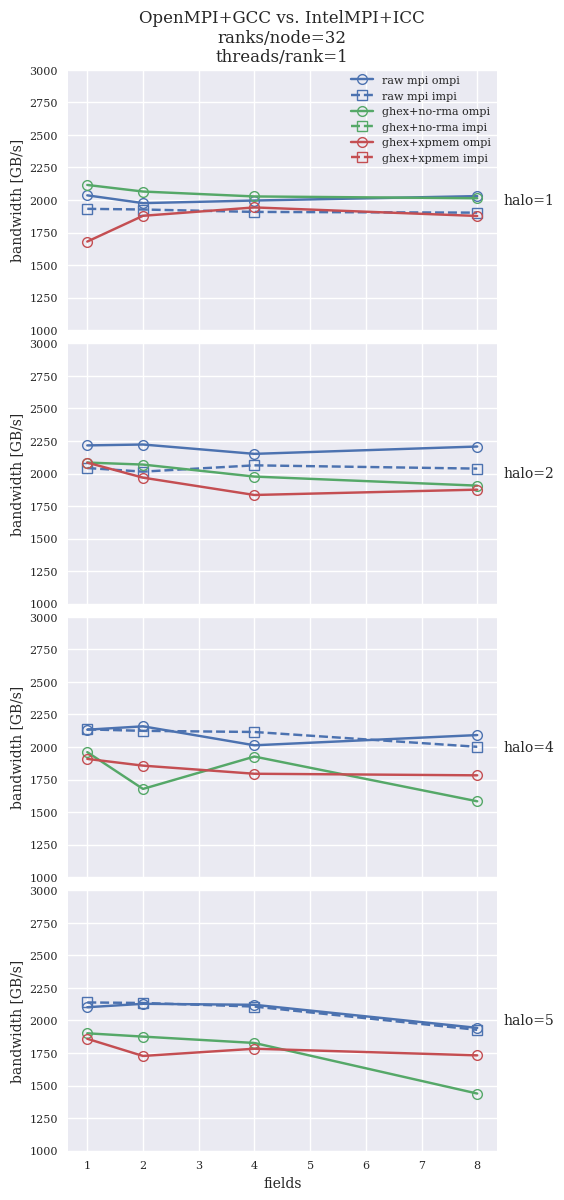
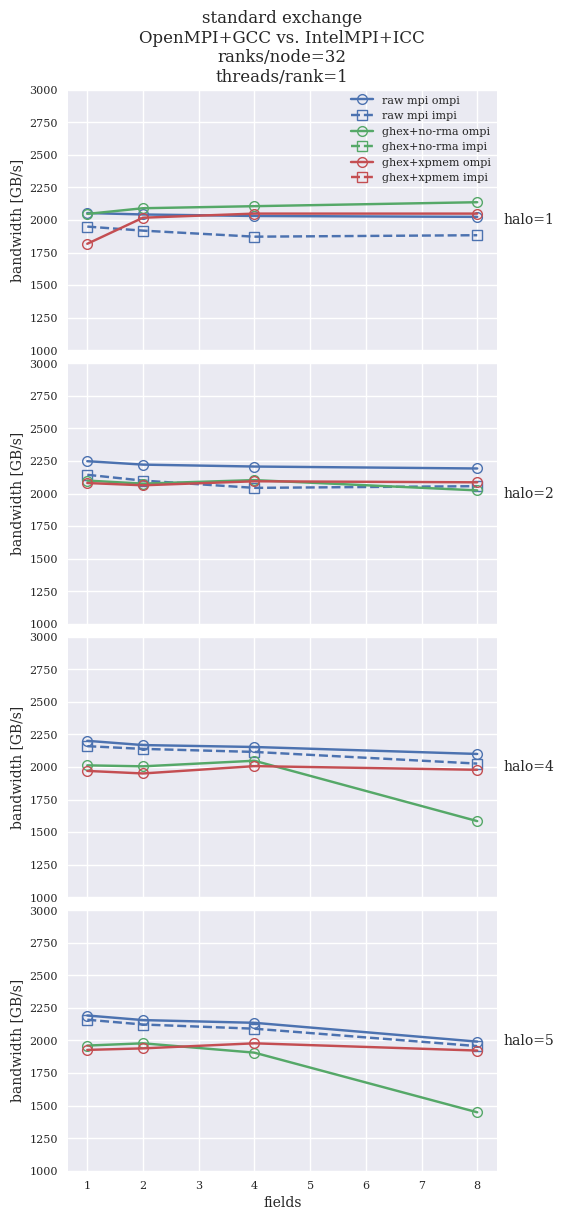
new betzy results (all tests on the same set of nodes)

diff --git a/results/betzy/27_nodes/plots.md b/results/betzy/27_nodes/plots.md
@@ -1,0 +1,134 @@
+## Comparison of various 27-nodes results
+
+All tests have been run with 64^3 per-rank grids, `halfcores` (64 ranks per compute node, `hwcart` decomposition  
+`--node 3 3 3 --socket 1 1 2 --numa 1 2 2 --l3 2 2 1 --core 2 1 1`.
+
+Plots present cumulative effective memory bandwidth of the exchange operation (more=better).
+
+[Standard algorithm](#standard-algorithm)  
+&nbsp; &nbsp;  [`impi` vs `ompi`](#impi-vs-ompi)  
+&nbsp; &nbsp;  [UCX vs MPI](#ucx-vs-mpi)  
+[Staged algorithm](#staged-algorithm)  
+&nbsp; &nbsp;  [`impi` vs `ompi`](#impi-vs-ompi-1)  
+&nbsp; &nbsp;  [UCX vs MPI](#ucx-vs-mpi-1)  
+[Sequenced algorithm](#sequenced-algorithm)  
+
+### Standard algorithm
+
+Standard algorithm means that each rank performs explicit halo exchanges with each of the 26 neigobors. For
+multiple fields the data is packed into a single array and sent in one large message.
+
+The standard algorithm is implemented in all the `ghex` variants of the benchmark. 
+The raw MPI version of the benchmark implements the [staged algorithm of the 3D halo exchange](#staged-algorithm).
+
+#### `impi` vs `ompi`
+
+Only `benchmark_mpi_comm` was executed with the Intel compiler. The problem is that
+the `ghex_comm` variants take much too long time to initialize. From the comparison it
+seems that Intel MPI is considerably worse for small halos, and starts to perform similar
+starting from halo ~4.
+
+![ompi vs. impi](betzy_ompi_vs_impi.png)
+
+#### Infiniband transport (DC vs UD)
+
+Infiniband traffic can be sent using UD (unreliable datagram) and DC (connected) transports. Sometimes the performance
+differs signifficantly. In the plots below we see that the raw MPI implementation performs similar. For the standard algorithm,
+`ghex_comm+ucx` prefers the UD transport for small halos. In this case all variants give a simiar performance, comparable
+to raw MPI implementation.
+
+For larger halos the performance differs for `no-rma` and `xpmem`: the `no-rma` variant prefers DC, while the `xpmem` seems
+to slightly favor the UD transport. Overall, UD will probably have lower performance for large number of messages (more
+can get lost and need retransmission?).
+
+![standard, dc vs. ud](betzy_dc_vs_ud.png)
+
+#### UCX vs MPI
+
+Here we compare the two supported backends - UCX and MPI - with both DC (left) and UD (right) transports.
+We can again see that the UD transport affects the performance of both `ghex+no-rma` variants, and that DC is clearly
+better in this case.
+
+UCX yields better performance for most `no-rma` variants, but seems to be worse for the `xpmem` variant. 
+The reasons are not understood.
+
+In most cases the raw MPI implementation is better than any of the `ghex` variants. Interestingly, the MPI backend
+does well for halo 1. This is NOT the case for the UCX backend, which is also not understood.
+
+
+UCX vs MPI, DC transport             |  UCX vs MPI, UD transport
+:-------------------------:|:-------------------------:
+![](betzy_ucx+dc_vs_mpi+dc.png)  |  ![](betzy_ucx+ud_vs_mpi+ud.png)
+
+
+### Staged algorithm
+
+The staged algorithm of the 3D halo exchange performs 3 ordered one-dimensional halo exchanges one after another.
+The subsequent steps also distribute the data received in previus steps, hence the algorithm is equivalent to a full 
+halo exchange with 26 neighbors. However, it performs the exchange in 6 messages rather than 26, which as will be demonstrated
+has a signifficant impact on performance.
+
+#### `impi` vs `ompi`
+
+Here all the benchmarks are compared for both compilers, as in the case of the staged algorithm the overhead
+of the initialization phase has been eliminated.
+
+For small halos, the raw MPI version performs better with `ompi`. For halo size 4+ performance is more similar,
+with `ompi` still having a small advantage`.
+
+In general, for all `ghex` variants performance is better with `ompi` than `impi`. However, it should be noted that
+the `no-rma` variant seems to scale differently with `impi`: for halo 4 and 5 the performance curve is roughly flat, 
+while for `ompi` the performance starts high, and then falls for 4 and 8 fields.
+
+![staged ompi vs. impi](betzy_staged+ompi_vs_staged+impi.png)
+
+#### Infiniband transport (DC vs UD)
+
+The below plot shows performance of `ghex+ucx` variants with different IB transport. 
+For halo 1 all codes yield roughly similar performance as the raw MPI implementation, except for maybe 1 field.
+The `no-rma` variant is slightly worse for small problems.
+
+For halos larger than 1 we see a clear advantage of the `xpmem` variant with the DC transport. It outperforms the raw
+MPI version for all number of fields. 
+
+![staged, dc vs. ud](betzy_staged+dc_vs_staged+ud.png)
+
+#### UCX vs MPI
+
+Here we compare the two supported backends - UCX and MPI - with both DC (left) and UD (right) transports.
+We can again see that the UD transport affects the performance of both `ghex+no-rma` variants, and that DC is clearly
+better in this case.
+
+As with the standard algorithm, UCX yields better performance for most `no-rma` variants. 
+The situation is more complex for the `xpmem` variant. While UCX is better in the UD case, there
+seems to be a cross-over in the DC case and halo 4 and 5: for small number of fields the MPI version is better.
+For large number of fields the UCX takes over and is sometimes much better (halo 4). Again, this is not understood and 
+needs clarification. Maybe UCX performance can be improved.
+
+In the staged method, in most cases the raw MPI implementation is worse than `ghex+xpmem` variants. For small number of fields
+the `no-rma` variants are also better, but then the performance drops. This is maybe connected with the packing/unpacking
+to a single buffer. As in the standard case, the MPI backend does well for halo 1. This is NOT the case for the UCX backend, 
+which is also not understood. There should not be a qualitative difference between those two backends.
+
+
+UCX vs MPI, DC transport             |  UCX vs MPI, UD transport
+:-------------------------:|:-------------------------:
+![](betzy_staged+ucx+dc_vs_staged+mpi+dc.png)  |  ![](betzy_staged+ucx+ud_vs_staged+mpi+ud.png)
+
+
+### Sequenced algorithm
+
+The sequenced algorithm performs halo exchange for each field individually, rather than packing all data for all
+fields into a single buffer.
+
+In general, the sequenced algorithm performs not much different than the standard algorithm. Some negative effect
+is seen for the `xpmem` variant for halo 1.
+
+![](betzy_standard_vs_sequence.png)
+
+#### Staged vs. sequenced+staged
+
+A clean staged alorithm is clearly a better than steged and sequenced algoritm: field-by-field exchange slightly
+decreases the performance. \
+
+![](betzy_staged+dc_vs_staged+sequence+dc.png)

diff --git a/results/betzy/README.md b/results/betzy/README.md
@@ -74,11 +74,6 @@ For 27-node runs the node grid dimensions were `[3 3 3]`.
 
 #### Single-node tests
 
-[`jube run bench.xml --tag single_node ompi halfcores hwcart`](single_node/jube_0.md)  
-[`jube run bench.xml --tag single_node ompi allcores hwcart`](single_node/jube_1.md)  
-[`jube run bench.xml --tag single_node impi halfcores hwcart`](single_node/jube_2.md)  
-[`jube run bench.xml --tag single_node impi allcores hwcart`](single_node/jube_3.md)  
-
 The following tables present a human-readable comparison of the different benchmark results.
 
 [`hwcart halfcores`](single_node/halo_fields_halfcores.md)  
@@ -86,18 +81,16 @@ The following tables present a human-readable comparison of the different benchm
 [`compact` vs `staged`, `halfcores`](single_node/staged.md)  
 [`compact` vs `field-by-field`, `halfcores`](single_node/sequence.md)  
 
+Original JUBE output
+
+[`jube run bench.xml --tag single_node ompi halfcores hwcart`](single_node/jube_0.md)  
+[`jube run bench.xml --tag single_node ompi allcores hwcart`](single_node/jube_1.md)  
+[`jube run bench.xml --tag single_node impi halfcores hwcart`](single_node/jube_2.md)  
+[`jube run bench.xml --tag single_node impi allcores hwcart`](single_node/jube_3.md)  
+
 #### 27-node tests
 
-[`jube run bench.xml --tag 27_nodes ompi halfcores mpicart`](27_nodes/jube_0.md)  
-[`jube run bench.xml --tag 27_nodes impi halfcores mpicart`](27_nodes/jube_1.md)  
-[`jube run bench.xml --tag 27_nodes ompi halfcores hwcart`](27_nodes/jube_2.md)  
-[`jube run bench.xml --tag 27_nodes impi halfcores hwcart`](27_nodes/jube_3.md)  
-[`jube run bench.xml --tag 27_nodes ompi allcores hwcart`](27_nodes/jube_4.md)  
-[`jube run bench.xml --tag 27_nodes impi allcores hwcart`](27_nodes/jube_5.md)  
-[`jube run bench.xml --tag 27_nodes impi halfcores mpicart`](27_nodes/jube_6.md)  
-[`jube run bench.xml --tag 27_nodes ompi halfcores mpicart`](27_nodes/jube_7.md)  
-[`jube run bench.xml --tag 27_nodes impi allcores mpicart`](27_nodes/jube_8.md)  
-[`jube run bench.xml --tag 27_nodes ompi allcores mpicart`](27_nodes/jube_9.md)  
+All sorts of [`comparison plots`](27_nodes/plots.md)  
 
 The following tables present a human-readable comparison of the different benchmark results.
 
